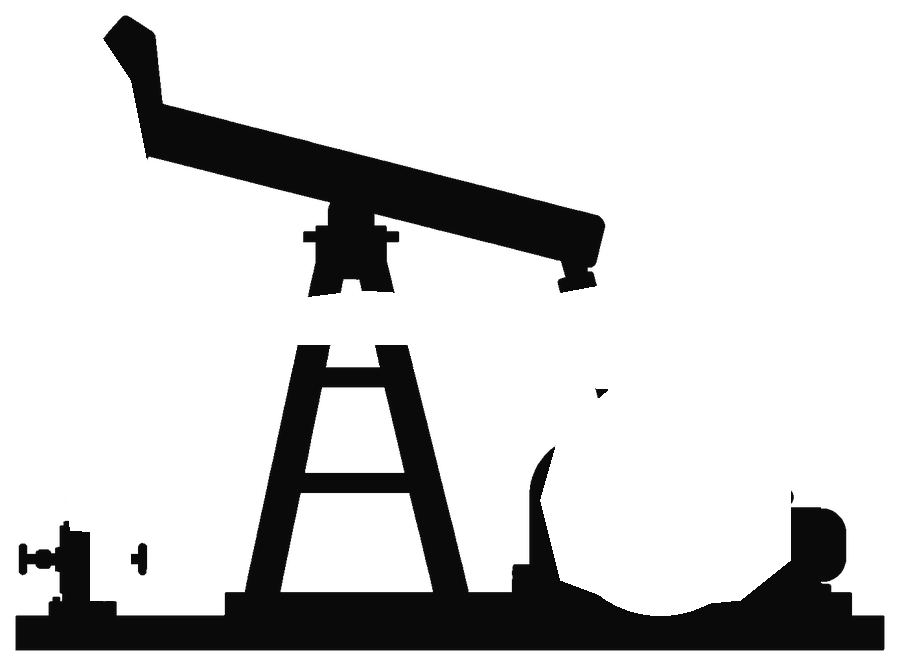
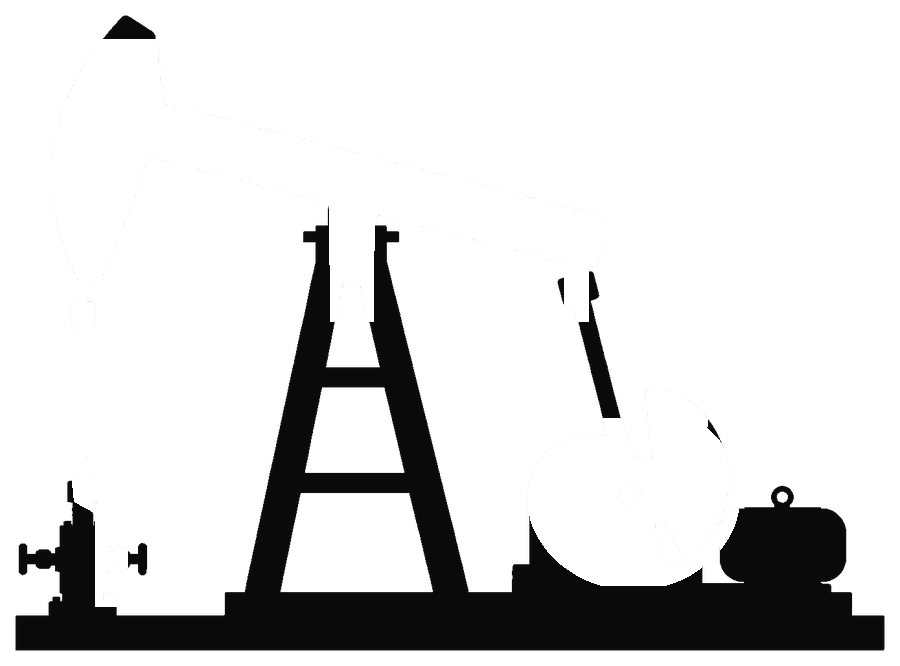
Fix pumpjack animation pivots and layer split
Correct the Samson saddle pivot (beam was rotating too low), keep
the pitman on the beam layer, spin only the counterweight hub, and
sync the nod to the silhouette’s rest pose (horse head up).

diff --git a/app/landing/Pumpjack.tsx b/app/landing/Pumpjack.tsx
@@ -1,14 +1,16 @@
 /**
- * Exact approved silhouette (public/landing/pumpjack-*.png), split into
- * base / beam / crank layers so it can nod and spin without redrawing.
+ * Exact approved silhouette split into base / beam / crank layers.
  *
- * Pivots in the 900×666 asset space:
- *   beam  — Samson saddle ~(380, 325)
- *   crank — hub ~(640, 520)
+ * Pivots (900×666 asset space), measured from the PNG:
+ *   beam  — Samson saddle where the walking beam sits
+ *   crank — center of the counterweight hub
+ *
+ * Pitman rides with the beam (nods). Only the hub + counterweight spin.
  */
 export default function Pumpjack() {
-  const beamPivot = { x: 380, y: 325 }
-  const crankPivot = { x: 640, y: 520 }
+  // Measured from the PNG: beam sits ~y=200 at the Samson; hub hole ~y=488
+  const beamPivot = { x: 385, y: 201 }
+  const crankPivot = { x: 628, y: 488 }
 
   return (
     <svg
@@ -24,6 +26,7 @@ export default function Pumpjack() {
         preserveAspectRatio="xMidYMid meet"
       />
 
+      {/* Counterweight spins about the hub */}
       <g transform={`translate(${crankPivot.x} ${crankPivot.y})`}>
         <g className="cs-pump-crank">
           <image
@@ -37,6 +40,7 @@ export default function Pumpjack() {
         </g>
       </g>
 
+      {/* Beam + horsehead + pitman nod about the Samson pin */}
       <g transform={`translate(${beamPivot.x} ${beamPivot.y})`}>
         <g className="cs-pump-beam">
           <image

diff --git a/app/landing/coming-soon.css b/app/landing/coming-soon.css
@@ -239,18 +239,22 @@
   transform-origin: 70% 100%;
 }
 
-/* Walking beam nods about the Samson pin */
+/*
+ * Silhouette rest pose already has the horse head UP (beam tipped
+ * down to the right). Nod from that pose to head-DOWN and back —
+ * one nod per full crank revolution.
+ */
 @keyframes cs-pump-nod {
   0%,
   100% {
-    transform: rotate(-10deg);
+    transform: rotate(0deg);
   }
   50% {
-    transform: rotate(10deg);
+    transform: rotate(18deg);
   }
 }
 
-/* Crank + counterweight spin — same period as the nod */
+/* Counterweight spin — same period as the nod */
 @keyframes cs-pump-crank {
   from {
     transform: rotate(0deg);
@@ -262,12 +266,14 @@
 
 .cs-pump-beam {
   transform-origin: 0 0;
-  animation: cs-pump-nod 2.8s ease-in-out 0.9s infinite;
+  animation: cs-pump-nod 3.2s ease-in-out infinite;
 }
 
 .cs-pump-crank {
   transform-origin: 0 0;
-  animation: cs-pump-crank 2.8s linear 0.9s infinite;
+  /* Opposite direction so the weight drops as the horse head rises */
+  animation: cs-pump-crank 3.2s linear infinite;
+  animation-direction: reverse;
 }
 
 @media (max-width: 860px) {
@@ -312,11 +318,6 @@
   .cs-rig .cs-pumpjack {
     width: 100%;
     max-height: 58vh;
-  }
-
-  .cs-pump-beam,
-  .cs-pump-crank {
-    animation: none;
   }
 }
 
